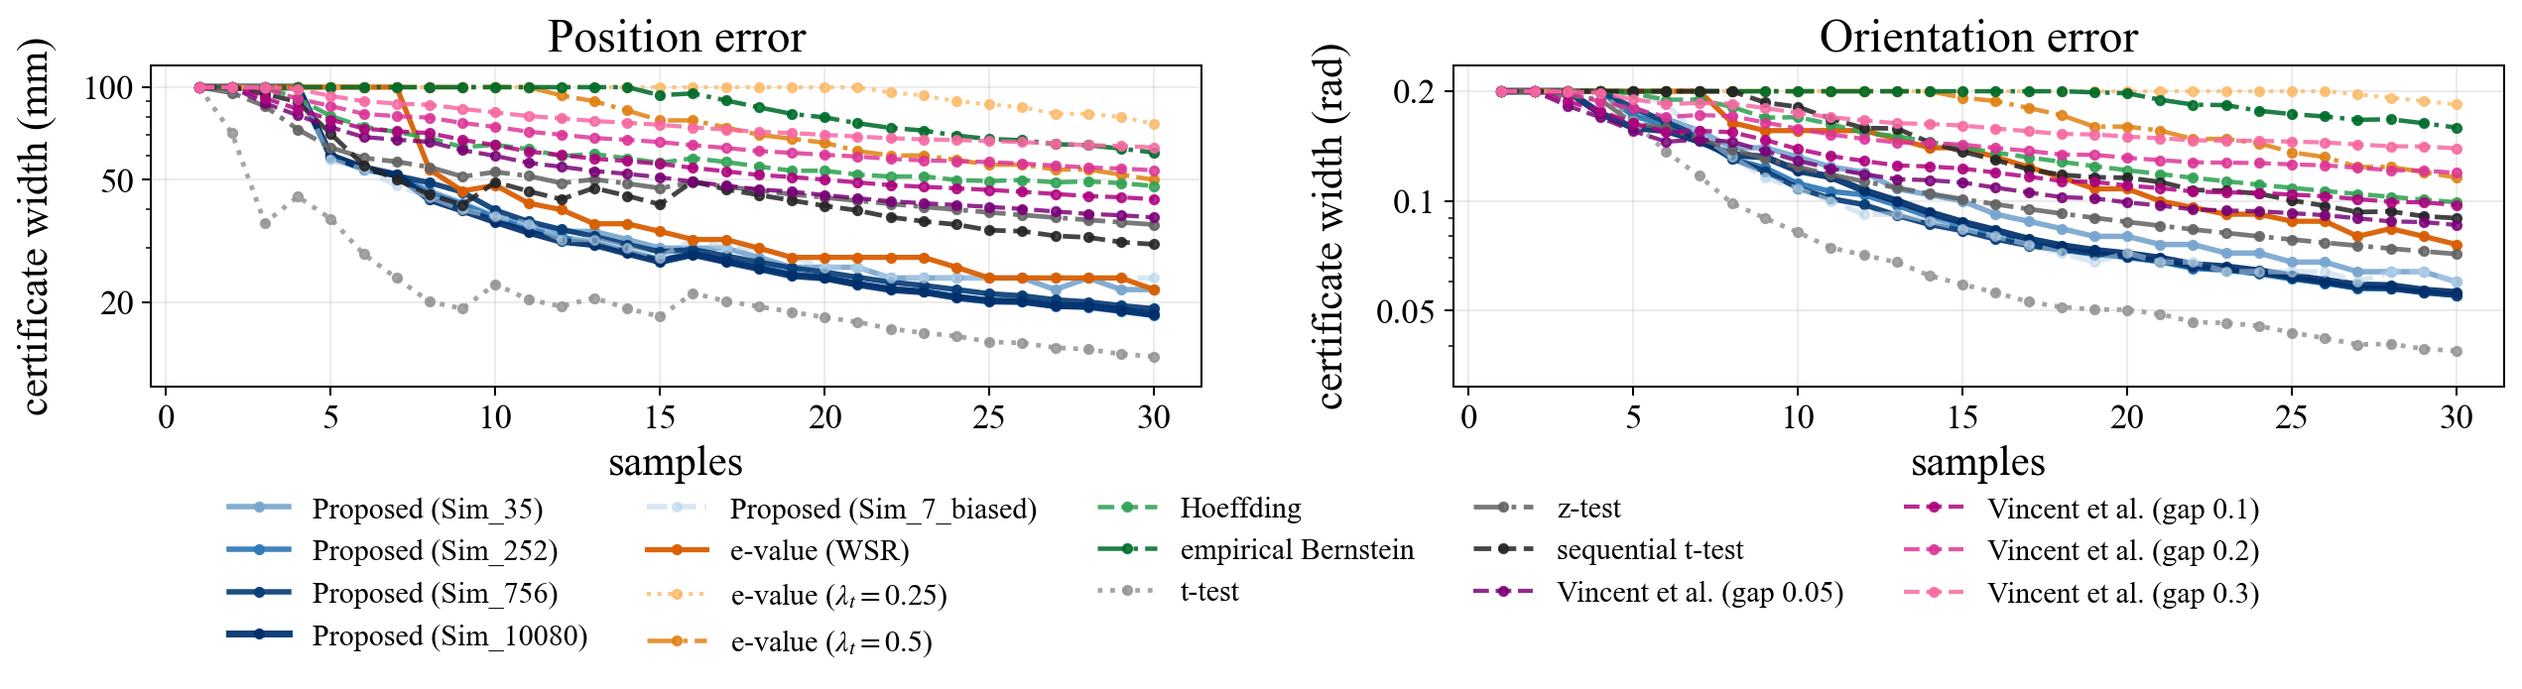
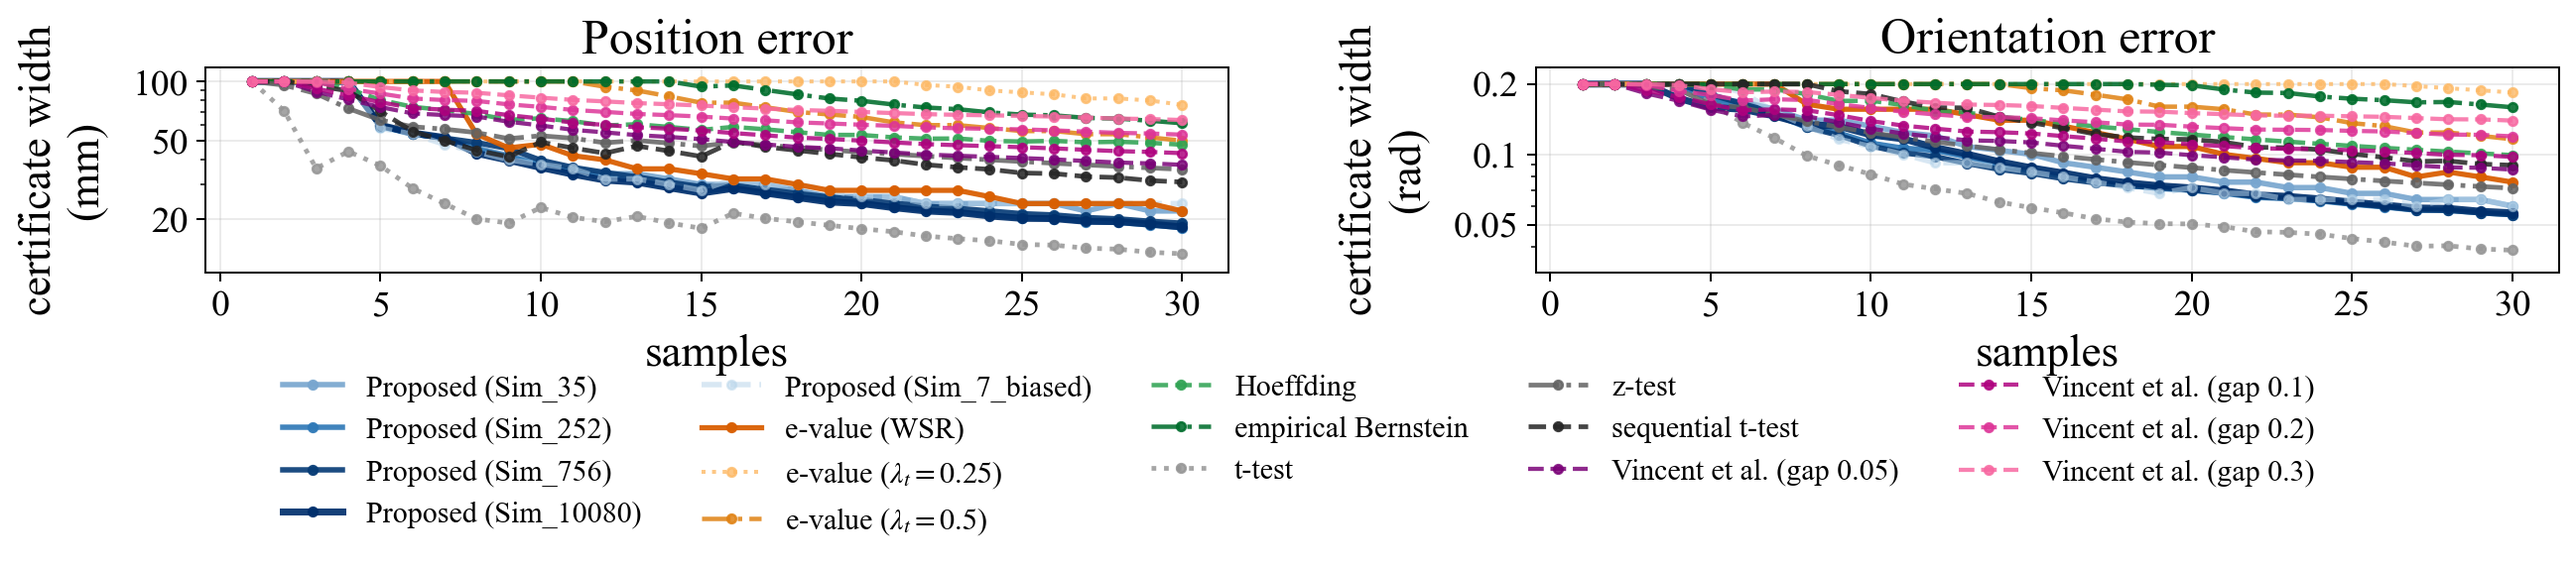
update plot height

diff --git a/synthetic/plot_demo.py b/synthetic/plot_demo.py
@@ -108,6 +108,18 @@ def label(method, bank):
     return LABELS.get(method, method)
 
 
+def compact_group_label(method, bank):
+    if method == "sim2real":
+        return "ideal Kelly" if bank == "Ideal" else bank
+    if method == "vincent":
+        return "ideal" if bank == "Ideal" else f"gap {bank.split('_')[-1]}"
+    if method == "e_value_wsr":
+        return "WSR"
+    if method.startswith("e_value_constant_"):
+        return rf"$\lambda_t={method.rsplit('_', 1)[-1]}$"
+    return label(method, bank)
+
+
 def method_order(rows):
     sim_banks = sorted(
         {r["bank"] for r in rows if r["method"] == "sim2real" and r["bank"] != "Ideal"},
@@ -199,7 +211,7 @@ def plot_width_curves(path, save):
     rows = read_csv(path)
     order = method_order(rows)
     real_sets = real_set_order(rows)
-    fig, axes_grid = plt.subplots(2, 2, figsize=(12.2, 8.0), sharey=False)
+    fig, axes_grid = plt.subplots(2, 2, figsize=(12.2, 5.6), sharey=False)
     axes = axes_grid.ravel()
     legend_ax = axes[-1]
     legend_ax.axis("off")
@@ -227,8 +239,9 @@ def plot_width_curves(path, save):
             line_label = label(method, bank)
             legend_entries.setdefault((method, bank), (line, line_label))
 
-        ax.set_title(real_set)
-        ax.set_xlabel("samples")
+        ax.set_title(real_set, fontsize=20)
+        ax.set_xlabel("samples", fontsize=18)
+        ax.tick_params(axis="both", labelsize=15)
         ax.set_yscale("log")
         if plotted_widths:
             ymin = min(plotted_widths)
@@ -236,42 +249,45 @@ def plot_width_curves(path, save):
             ax.set_ylim(ymin / 1.18, ymax * 1.18)
         ax.grid(alpha=0.25)
 
-    axes[0].set_ylabel("mean certificate width")
-    axes[2].set_ylabel("mean certificate width")
+    axes[0].set_ylabel("mean certificate width", fontsize=18)
+    axes[2].set_ylabel("mean certificate width", fontsize=18)
     groups = [
-        ("Proposed", [(method, bank) for method, bank in order if method == "sim2real"], (0.02, 0.98)),
-        ("e-values", [(method, bank) for method, bank in order if method.startswith("e_value")], (0.52, 0.98)),
+        ("Proposed", [(method, bank) for method, bank in order if method == "sim2real"], (0.02, 0.99), 3),
+        ("Vincent et al.", [(method, bank) for method, bank in order if method == "vincent"], (0.02, 0.66), 3),
+        ("e-values", [(method, bank) for method, bank in order if method.startswith("e_value")], (0.02, 0.33), 1),
         ("Concentration", [(method, bank) for method, bank in order if method in (
             "hoeffding",
             "empirical_bernstein",
-        )], (0.52, 0.62)),
+        )], (0.34, 0.33), 1),
         ("p-values", [(method, bank) for method, bank in order if method in (
             "t_test",
             "z_test",
             "sequential_t_test",
-        )], (0.52, 0.40)),
-        ("Vincent et al.", [(method, bank) for method, bank in order if method == "vincent"], (0.02, 0.38)),
+        )], (0.70, 0.33), 1),
     ]
-    for title, keys, anchor in groups:
+    for title, keys, anchor, ncol in groups:
         entries = [legend_entries[key] for key in keys if key in legend_entries]
         if not entries:
             continue
-        group_handles, group_labels = zip(*entries)
-        legend_ax.text(anchor[0], anchor[1], title, transform=legend_ax.transAxes, fontsize=15, fontweight="bold", va="top")
+        group_handles = [entry[0] for entry in entries]
+        group_labels = [compact_group_label(*key) for key in keys if key in legend_entries]
+        legend_ax.text(anchor[0], anchor[1], title, transform=legend_ax.transAxes, fontsize=16, fontweight="bold", va="top")
         legend = legend_ax.legend(
             group_handles,
             group_labels,
             frameon=False,
-            fontsize=12,
+            fontsize=13,
             loc="upper left",
             bbox_to_anchor=(anchor[0], anchor[1] - 0.06),
             bbox_transform=legend_ax.transAxes,
-            handlelength=2.5,
-            labelspacing=0.55,
+            ncol=ncol,
+            handlelength=1.5,
+            columnspacing=0.4,
+            labelspacing=0.2,
             borderaxespad=0.0,
         )
         legend_ax.add_artist(legend)
-    fig.tight_layout()
+    fig.subplots_adjust(left=0.075, right=0.99, bottom=0.10, top=0.92, hspace=0.50, wspace=0.13)
     fig.savefig(save, dpi=180)
     print(f"saved {save}")
 

diff --git a/astm_wk86916_go2/plot_demo.py b/astm_wk86916_go2/plot_demo.py
@@ -52,8 +52,8 @@ VINCENT_COLORS = {
 
 
 MEASURE_LABELS = {
-    "pos_error_l2": ("Position error", "certificate width (mm)"),
-    "orientation_error_geodesic": ("Orientation error", "certificate width (rad)"),
+    "pos_error_l2": ("Position error", "certificate width\n(mm)"),
+    "orientation_error_geodesic": ("Orientation error", "certificate width\n(rad)"),
 }
 
 
@@ -167,7 +167,7 @@ def plot_width_curves():
     rows = read_csv(DATA_DIR / "certificate_widths.csv")
     order = method_order(rows)
     measures = list(dict.fromkeys(row["measure"] for row in rows))
-    fig, axes = plt.subplots(1, len(measures), figsize=(7.2 * len(measures), 4.0), sharey=False)
+    fig, axes = plt.subplots(1, len(measures), figsize=(7.2 * len(measures), 3.2), sharey=False)
     if len(measures) == 1:
         axes = [axes]
 
@@ -188,9 +188,10 @@ def plot_width_curves():
             line, = ax.plot(x[idx], y[idx], marker="o", markersize=3.5, label=label(method, bank), **style_for(method, bank))
             legend_entries.setdefault((method, bank), (line, label(method, bank)))
         title, y_label = MEASURE_LABELS.get(measure, (measure, "certificate width"))
-        ax.set_title(title)
-        ax.set_xlabel("samples")
-        ax.set_ylabel(y_label, labelpad=10)
+        ax.set_title(title, fontsize=20)
+        ax.set_xlabel("samples", fontsize=18)
+        ax.set_ylabel(y_label, fontsize=18, labelpad=10)
+        ax.tick_params(axis="both", labelsize=15)
         ax.set_yscale("log")
         if plotted_widths:
             ymin = min(plotted_widths)
@@ -204,7 +205,7 @@ def plot_width_curves():
 
     handles, labels = zip(*[legend_entries[key] for key in order if key in legend_entries])
     fig.legend(handles, labels, loc="lower center", ncol=5, frameon=False, bbox_to_anchor=(0.5, 0.01))
-    fig.subplots_adjust(left=0.075, right=0.99, bottom=0.43, top=0.88, wspace=0.24)
+    fig.subplots_adjust(left=0.075, right=0.99, bottom=0.52, top=0.88, wspace=0.30)
     save = DATA_DIR / "width_curves.png"
     fig.savefig(save, dpi=180, bbox_inches="tight")
     print(f"saved {save}")

diff --git a/nist_continuous_manipulation/plot_demo.py b/nist_continuous_manipulation/plot_demo.py
@@ -52,7 +52,7 @@ VINCENT_COLORS = {
 
 
 MEASURE_LABELS = {
-    "Interception_Rate": ("Interception rate", "certificate width (percentage points)"),
+    "Interception_Rate": ("Interception rate", "certificate width\n(percentage points)"),
     "Search_Time": ("Search time", "certificate width (s)"),
     "distance": ("Distance error", "certificate width (mm)"),
 }
@@ -170,7 +170,7 @@ def plot_width_curves():
     rows = read_csv(DATA_DIR / "certificate_widths.csv")
     order = method_order(rows)
     measures = list(dict.fromkeys(row["measure"] for row in rows))
-    fig, axes = plt.subplots(1, len(measures), figsize=(7.2 * len(measures), 5.8), sharey=False)
+    fig, axes = plt.subplots(1, len(measures), figsize=(7.2 * len(measures), 4.0), sharey=False)
     if len(measures) == 1:
         axes = [axes]
 
@@ -198,9 +198,10 @@ def plot_width_curves():
             )
             legend_entries.setdefault((method, bank), (line, label(method, bank)))
         title, y_label = MEASURE_LABELS.get(measure, (measure, "certificate width"))
-        ax.set_title(title)
-        ax.set_xlabel("samples")
-        ax.set_ylabel(y_label, labelpad=10)
+        ax.set_title(title, fontsize=20)
+        ax.set_xlabel("samples", fontsize=18)
+        ax.set_ylabel(y_label, fontsize=18, labelpad=10)
+        ax.tick_params(axis="both", labelsize=15)
         ax.set_yscale("log")
         if plotted_widths:
             ymin = min(plotted_widths)
@@ -214,7 +215,7 @@ def plot_width_curves():
 
     handles, labels = zip(*[legend_entries[key] for key in order if key in legend_entries])
     fig.legend(handles, labels, loc="lower center", ncol=5, frameon=False, bbox_to_anchor=(0.5, 0.01))
-    fig.subplots_adjust(left=0.06, right=0.995, bottom=0.35, top=0.88, wspace=0.27)
+    fig.subplots_adjust(left=0.06, right=0.995, bottom=0.41, top=0.89, wspace=0.14)
     save = DATA_DIR / "width_curves.png"
     fig.savefig(save, dpi=180, bbox_inches="tight")
     print(f"saved {save}")
